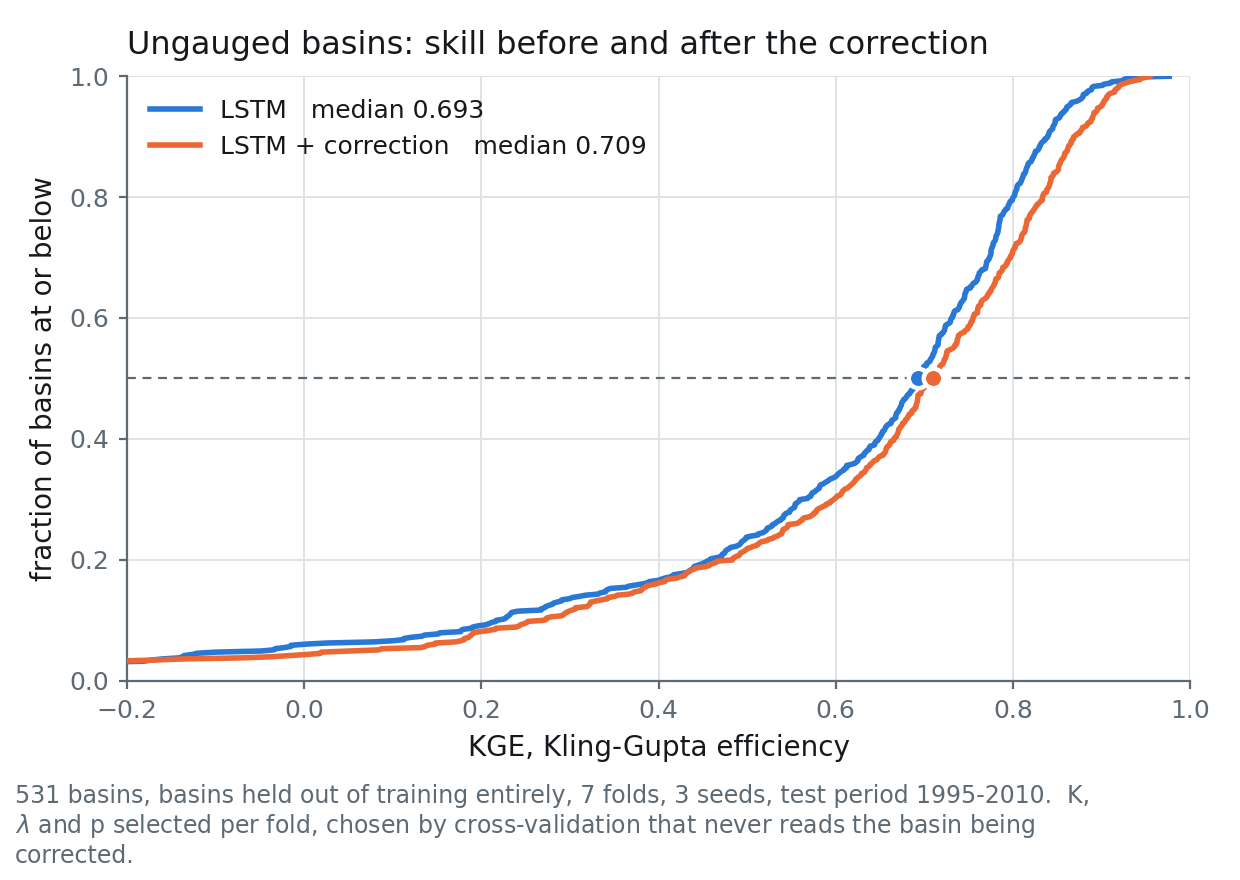
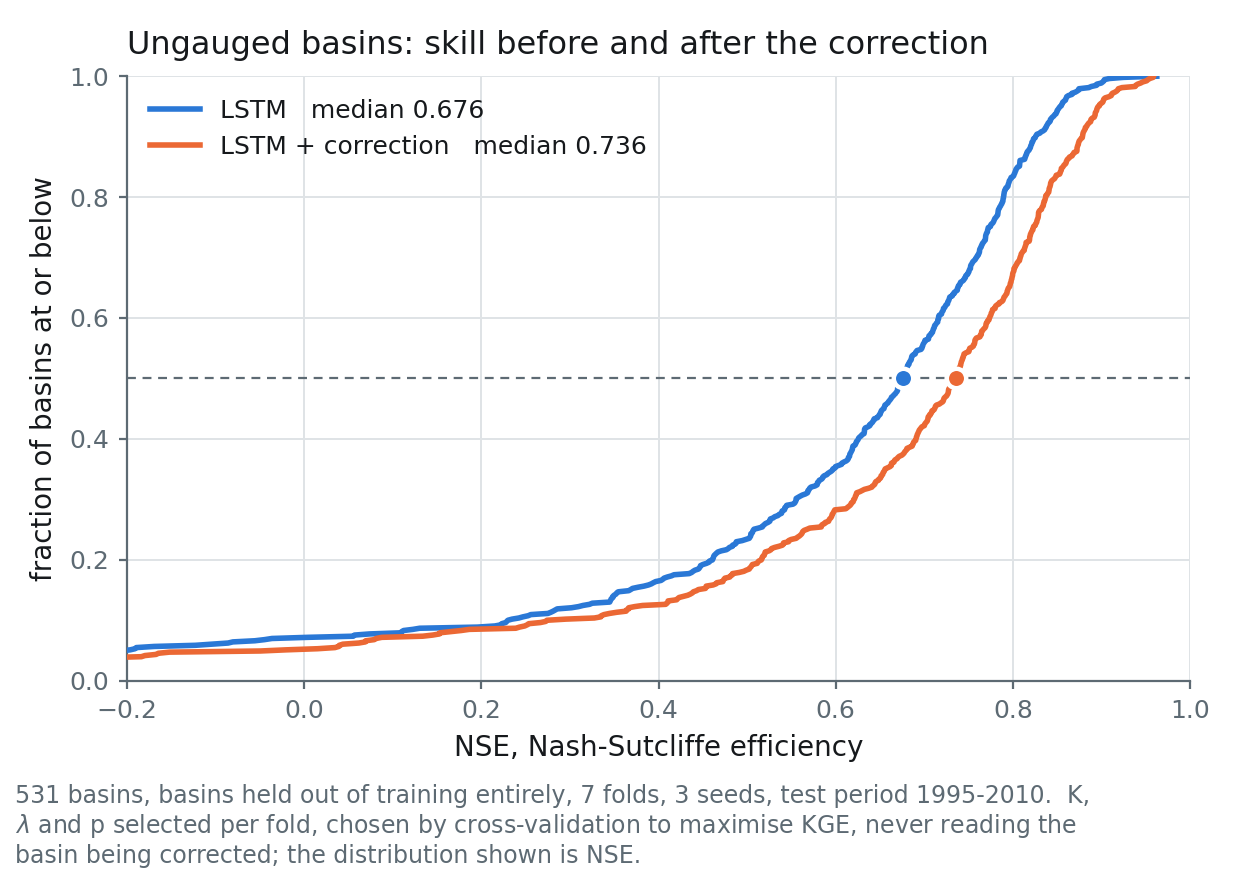
Put NSE back on the CDF, and say why it and KGE disagree
The old CDF plotted NSE -- its _kge suffix named the selection objective, not
the axis -- and switching the axis to KGE when the metric flag went away made
the correction look far weaker than it is, while also showing KGE twice
(the boxplot's first panel is KGE) and NSE nowhere.

The CDF is NSE again; the caption states that the settings on the page were
chosen to maximise KGE, so the cross-metric reading is explicit.

METHOD.md now carries the KGE component breakdown that explains the gap:
correlation 0.860 -> 0.887 and bias ratio 1.075 -> 0.980 both improve, but the
variability ratio goes 0.916 -> 0.902. The LSTM is already under-dispersed and
shrinking toward a weighted mean of neighbours damps variance further; KGE
charges for that and NSE does not, so NSE gains +0.060 against KGE's +0.016.

diff --git a/figures/make_cdf.py b/figures/make_cdf.py
@@ -3,9 +3,15 @@
     python figures/make_cdf.py --cell ungauged    # -> figures/ungauged_cdf.png
     python figures/make_cdf.py --cell gauged      # -> figures/gauged_cdf.png
 
-The empirical cumulative distribution of KGE across basins. Each basin contributes one point --
+The empirical cumulative distribution of NSE across basins. Each basin contributes one point --
 the score of its seed-mean hydrograph -- so a curve lying to the right is winning at every
 quantile it is right of, not merely on average.
+
+NSE here, KGE in the boxplot's first panel, so the two figures cover both and neither repeats
+the other. The settings on the page were still chosen to maximise KGE -- this is deliberately a
+cross-metric view, and the caption says so. The two disagree by more than the axis: the
+correction improves KGE's correlation and bias terms but slightly worsens its variability term,
+which NSE does not charge for, so the NSE gain is about four times the KGE gain.
 
 Colour: palette slots 0 and 1, validated in palette.py (normal-vision dE 33.6, protan 24.5,
 deutan 31.6, all past the >= 15 / >= 8 thresholds). Identity never rests on colour alone: both
@@ -33,7 +39,7 @@ def main(cell):
 
     fig, ax = plt.subplots(figsize=(6.2, 4.4))
     for name, color in SERIES.items():
-        v = np.sort(df.loc[df.variant == name, "kge"].dropna().to_numpy())
+        v = np.sort(df.loc[df.variant == name, "nse"].dropna().to_numpy())
         ax.plot(v, np.arange(1, len(v) + 1) / len(v), color=color, lw=2, zorder=3,
                 label=f"{name}   median {np.median(v):.3f}")
         ax.plot([np.median(v)], [0.5], "o", ms=7, color=color, markeredgecolor="white",
@@ -42,7 +48,7 @@ def main(cell):
 
     ax.set_xlim(-0.2, 1.0)
     ax.set_ylim(0, 1)
-    ax.set_xlabel("KGE, Kling-Gupta efficiency", color=INK, fontsize=LABEL)
+    ax.set_xlabel("NSE, Nash-Sutcliffe efficiency", color=INK, fontsize=LABEL)
     ax.set_ylabel("fraction of basins at or below", color=INK, fontsize=LABEL)
     ax.set_title(f"{CELL_TITLE[cell]}: skill before and after the correction",
                  color=INK, fontsize=TITLE, loc="left", pad=8)
@@ -52,7 +58,8 @@ def main(cell):
     bottom = caption(fig, f"{info['n_basins']} basins, {CELL_BLURB[cell]}, "
                           f"{info['n_folds']} folds, {info['n_seeds']} seeds, test period "
                           f"{info['test_period']}.  {settings_note(fold_settings(df))}, chosen by "
-                          f"cross-validation that never reads the basin being corrected.", 96)
+                          f"cross-validation to maximise KGE, never reading the basin being "
+                          f"corrected; the distribution shown is NSE.", 96)
     fig.tight_layout(rect=(0, bottom, 1, 1))
     out = f"{HERE}/{cell}_cdf.png"
     fig.savefig(out, dpi=200, facecolor="white")

diff --git a/METHOD.md b/METHOD.md
@@ -150,6 +150,9 @@ Median KGE over the pooled 531 basins, and every other measure, before and after
 |---|---|---|
 | median NSE | 0.6756 | **0.7357** |
 | median KGE | 0.6931 | **0.7093** |
+| KGE's r (correlation) | 0.8595 | **0.8870** |
+| KGE's beta (bias ratio) | 1.0748 | **0.9800** |
+| KGE's alpha (variability ratio) | 0.9158 | 0.9021 (worse) |
 | median RMSE (mm/day) | 1.299 | **1.174** |
 | median overall bias | +7.5% | **−2.0%** |
 | bias, top 10% of flows | −9.6% | −12.0% (worse) |
@@ -162,10 +165,17 @@ Read honestly:
   and lowest flow bands all improve; overall bias flips from biased high to nearly balanced.
 - **The exception is the top 10% of flows, which gets worse.** The correction trades a little
   high-flow accuracy for a large reduction in day-to-day error everywhere else.
+- **NSE gains about four times what KGE does, and the components say why.** The correction
+  improves KGE's correlation and bias terms but slightly worsens its variability term: the LSTM
+  is already under-dispersed (alpha < 1), and shrinking toward a weighted mean of neighbours
+  damps variance further. KGE charges for that; NSE does not. Since the settings are selected
+  to maximise KGE, they are tuned against the measure the method gains least on — deliberate,
+  but worth knowing when reading the two numbers side by side.
 - **The pooled median and the paired per-basin gain are different statistics.** Pairing each
-  basin's corrected score against its own raw score gives a median gain of **+0.027 KGE**,
-  bootstrap 95% CI [+0.022, +0.035] — entirely positive. 62% of basins improve, and 100 of 531
-  are hurt by more than 0.05 KGE: the gain is a net, not a guarantee.
+  basin's corrected score against its own raw score gives a median gain of **+0.050 NSE**
+  (bootstrap 95% CI [+0.043, +0.057], 78% of basins improve, 49 hurt by more than 0.05) and
+  **+0.027 KGE** (CI [+0.022, +0.035], 62% improve, 100 hurt by more than 0.05). Entirely
+  positive on both, but a net rather than a guarantee.
 - **Two folds go slightly backwards** (0 and 4) on the pooled median. That is what selecting on
   the training basins costs when a fold's held-out geometry differs from its training geometry;
   it is reported rather than tuned away.
